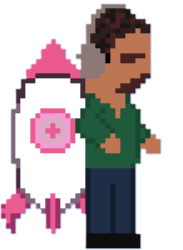
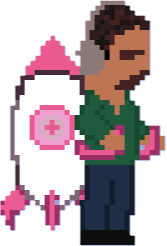
Fixed some more pictures

diff --git a/src/main/java/inf112/rocketman/view/assets/RocketManAssets.java b/src/main/java/inf112/rocketman/view/assets/RocketManAssets.java
@@ -34,7 +34,7 @@ public class RocketManAssets implements TextureProvider {
         generator.dispose();
 
 
-        preloadTextures(List.of("TPowah/TPowah.png", "TPowah/TPowahFlames.png", "Background/background.png", "Obstacles/Rocket.png", "Obstacles/warning.png", "PowerUps/Bird.png", "PowerUps/Box.png","Obstacles/activeLazer.png", "Obstacles/harmlessLazer.png", "Obstacles/inactiveLazer.png", "Obstacles/flame.png", "TCoin.png"));
+        preloadTextures(List.of("TPowah/jetpack.png", "TPowah/jetpack_flames.png", "TPowah/run1", "TPowah/run2", "TPowah/run3", "TPowah/run4", "Background/background.png", "Obstacles/Rocket.png", "Obstacles/warning.png", "PowerUps/bird.png", "PowerUps/birdUP.png", "PowerUps/Box.png","Obstacles/activeLazer.png", "Obstacles/harmlessLazer.png", "Obstacles/inactiveLazer.png", "Obstacles/flame.png", "TCoin.png"));
         preloadSounds(List.of("Sounds/jetpack.mp3", "Sounds/coin.mp3", "Sounds/powerup.mp3", "Sounds/bird.mp3", "Sounds/game_over.mp3"));
         preloadMusic(List.of("Sounds/music.mp3", "Sounds/MeowMeow.mp3"));
     }

diff --git a/src/main/java/inf112/rocketman/view/rendering/PlayerRenderer.java b/src/main/java/inf112/rocketman/view/rendering/PlayerRenderer.java
@@ -69,17 +69,6 @@ public class PlayerRenderer {
         shapeRenderer.setProjectionMatrix(batch.getProjectionMatrix());
         shapeRenderer.begin(ShapeRenderer.ShapeType.Line);
         shapeRenderer.setColor(Color.RED);
-
-        // Tegn spillerens hitbox
-        Polygon pPoly = model.getPlayer().getPolyHitBox();
-        shapeRenderer.polygon(pPoly.getTransformedVertices());
-
-        // Tegn flammene sine hitboxer
-        for (IObstacle obs : model.getObstacles()) {
-            if (obs instanceof Flame) {
-                shapeRenderer.polygon(((Flame) obs).getPolygon().getTransformedVertices());
-            }
-        }
         shapeRenderer.end();
     }
 }
